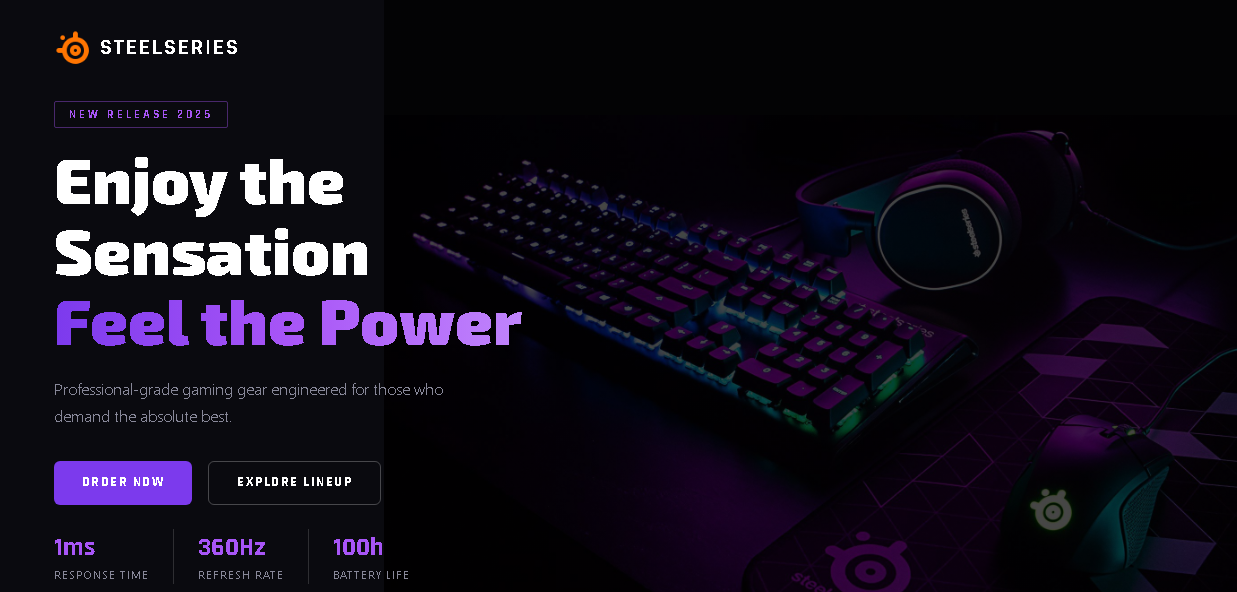
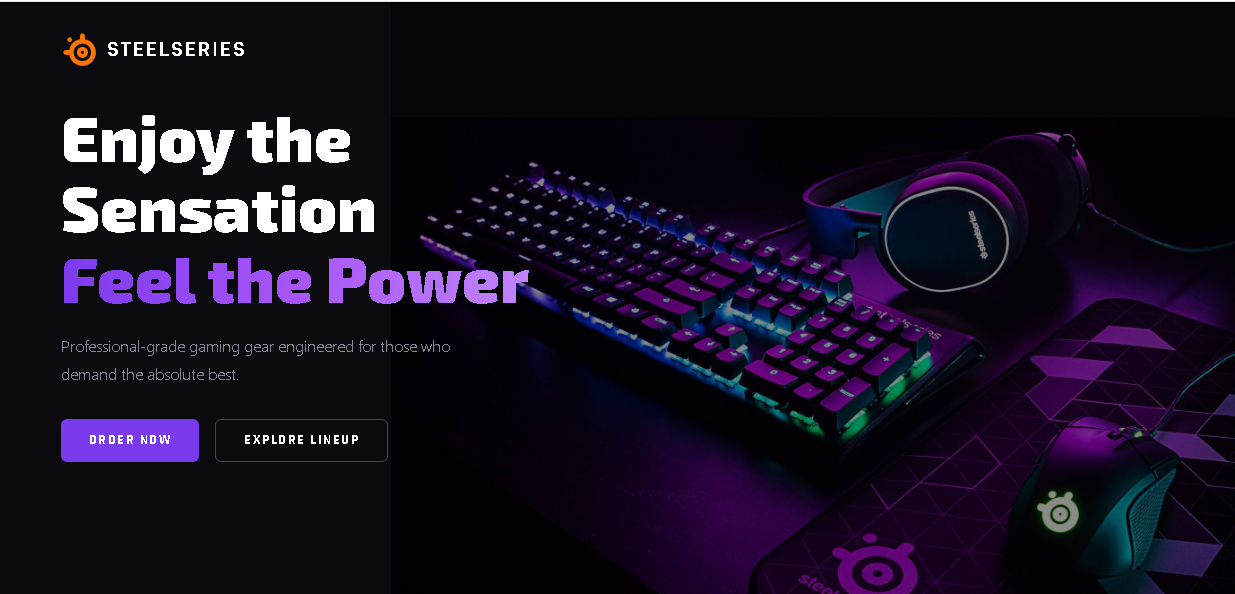
foto proyecto steel series cambiada

diff --git a/index.html b/index.html
@@ -129,7 +129,7 @@
 
             <div class="col-12 col-md-6 col-lg-6">
                 <div class="card h-100 shadow-sm animar">
-                    <img src="images/steel series.png"card-img-top" alt="Snake Game">
+                    <img src="./images/steel series.png"card-img-top" alt="Snake Game">
                     <div class="card-body">
                         <h5 class="card-title">Steel series landing page</h5>
                         <p class="card-text">Landing page completa desarrollada con HTML, bootstrap y CSS.</p>
